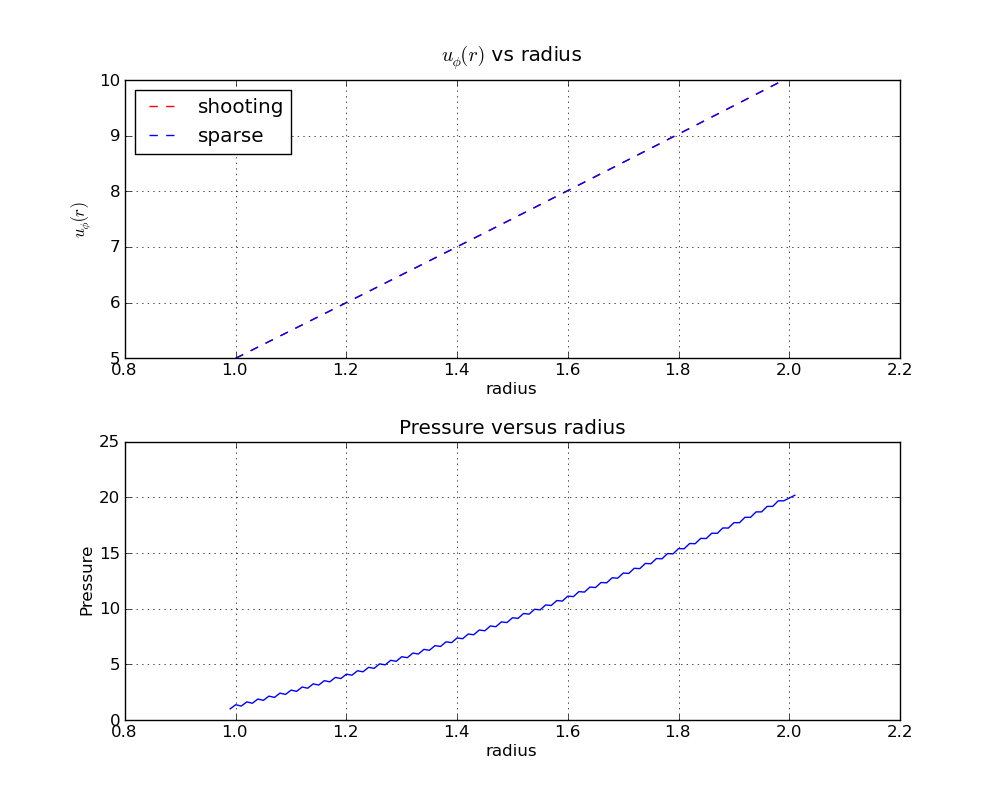
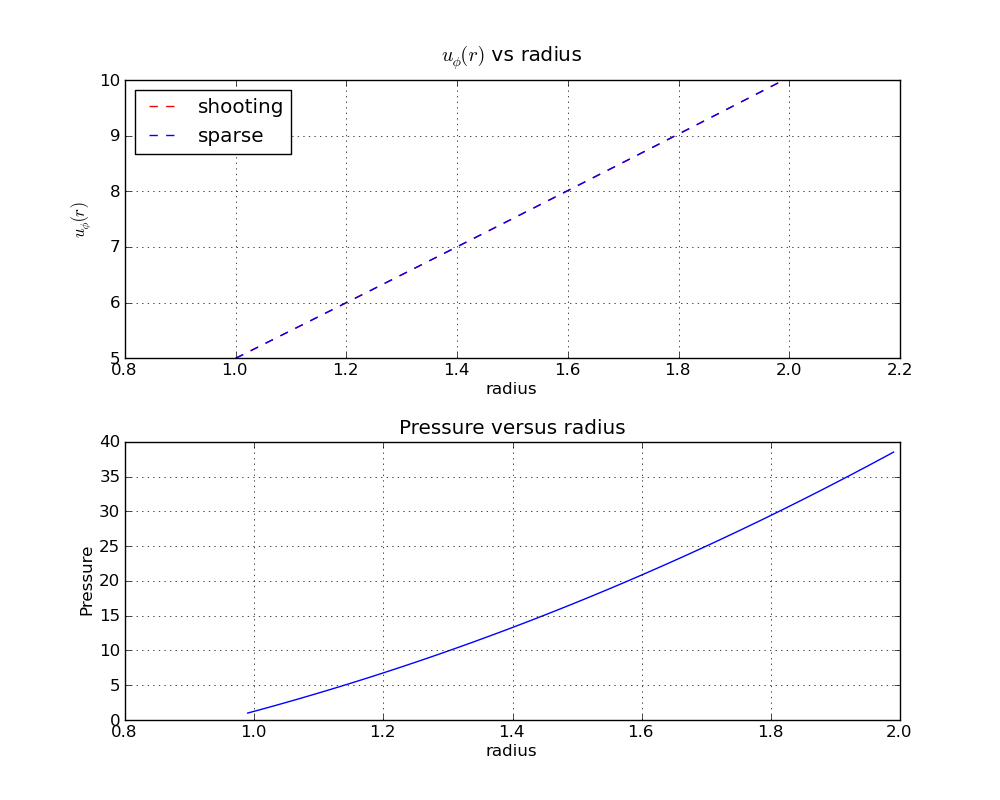
have first derivative working

diff --git a/poisson1d.c b/poisson1d.c
@@ -47,7 +47,7 @@ void set_radius(){
 
 void fill_source(){
     int i;
-    for(i=0; i<(P_size+2); i++){
+    for(i=0; i<(P_size+1); i++){
         //radius[i] = r1 + ((i-1)*grid_spacing[0]);
         if(i==0){
             //source[i] = (2.0*radius[i]*Re*Wi*Wi);
@@ -58,7 +58,7 @@ void fill_source(){
             //source[i] = radius[i]*Re*Wo*Wo;
             //source[i] = 0.0;
             //source[i] = Pouter;
-            source[i] = Re*radius[i]*Wo*Wo;
+            source[i] = Re*radius[i]*Wi*Wi;
             //source[i] = Re*d1uphi[i-1]*d1uphi[i-1]/radius[i];
         }else{
             source[i] = Re*d1uphi[i-1]*d1uphi[i-1]/radius[i];
@@ -72,7 +72,7 @@ void fill_source(){
 void finite_difference(){
     int i;
     for(i=0; i<P_size; i++){
-        double value = radius[i+1]*((source[i+2] - source[i]))/(grid_spacing[0]*Re);
+        double value = radius[i+1]*((source[i+1] - source[i]))/(grid_spacing[0]*Re);
         uphi_new[i] = sqrt(value);
         //printf("value = %f, uphinew[%d] = %f \n", value, i, uphi_new[i]);
     }
@@ -83,8 +83,8 @@ void finite_difference(){
 
 void sparse(){
     
-    const int M = 102;
-    const int N = 102;
+    const int M = 101;
+    const int N = 101;
     int i;
     // Declare an MxN matrix which can hold up to three band-diagonals.
     struct cs_sparse *triplet = cs_spalloc(M, N, 5*N, 1, 1);
@@ -101,16 +101,31 @@ void sparse(){
         e = -1.0*a;
         
         
-        if(i==0){
+        /*if(i==0){
             //cs_entry(triplet, i, i, e);
             //cs_entry(triplet, i, i+1, a);
             cs_entry(triplet, i, i, 1.0);
         }else if(i==(M-1)){
-            cs_entry(triplet, i, i, a);
-            cs_entry(triplet, i, i-1, e);
+            //cs_entry(triplet, i, i, a);
+            //cs_entry(triplet, i, i-1, e);
+            cs_entry(triplet, i, i, 1.0);
+            cs_entry(triplet, i, 0, 1.0);
         }else{
             cs_entry(triplet, i, i-1, e);
             cs_entry(triplet, i, i+1, a);
+        }*/
+        if(i==0){
+            //cs_entry(triplet, i, i, e);
+            //cs_entry(triplet, i, i+1, a);
+            cs_entry(triplet, i, i, 1.0);
+        }else if(i==(M)){
+            //cs_entry(triplet, i, i, a);
+            //cs_entry(triplet, i, i-1, e);
+            cs_entry(triplet, i, i, 1.0);
+            cs_entry(triplet, i, 0, 1.0);
+        }else{
+            cs_entry(triplet, i, i-1, e);
+            cs_entry(triplet, i, i, a);
         }
         
         
@@ -158,7 +173,7 @@ int main()
     radius = (double*) malloc((P_size+2)*sizeof(double));
 
 
-    source = (double*) malloc((P_size+2)*sizeof(double));
+    source = (double*) malloc((P_size+1)*sizeof(double));
     set_radius();
     open_file();
 
@@ -169,42 +184,14 @@ int main()
     fill_source();
     
     sparse();
-    
-    /*if(Wi>Wo){
-        if(source[0]>source[1] || source[P_size+1]>source[P_size]){
-            if(source[0]>source[1]){
-                Pinner = source[1];
-            }
-            
-            if(source[P_size+1]>source[P_size]){
-                Pouter = source[P_size];
-            }
-            fill_source();
-            sparse();
-            
-        }
-    }else{
-        printf("here, Wi = %f, Wo = %f \n", Wi, Wo);
-        if(source[0]<source[1] || source[P_size+1]<source[P_size]){
-            printf("source[0] = %f, source[1] = %f, source[P+1] = %f, souce[P] = %f \n", source[0], source[1], source[P_size+1] , source[P_size]);
-            if(source[0]<source[1]){
-                Pinner = source[1];
-            }
-            
-            if(source[P_size+1]<source[P_size]){
-                Pouter = source[P_size];
-            }
-            fill_source();
-            sparse();
-        }
-    }*/
+
     
 
 
     // Print the solution vector.
     output=fopen("pressure.txt", "w");
 
-    for (i=0; i<(P_size+2); i++) {
+    for (i=0; i<(P_size+1); i++) {
         printf("source[%d] = %+5.4e\n", i, source[i]);
         fprintf(output, "%+5.4e \n", source[i]);
     }

diff --git a/poisson_solver.py b/poisson_solver.py
@@ -20,8 +20,8 @@ for i in range(len(uphi_shooting)):
 	r2 = r1+ (i*0.01)
 	radius.append(r2)
 	radius2.append(r2)
-y = 2.0+0.01	
-radius2.append(y)
+##y = 2.0+0.01	
+##radius2.append(y)
 
 # create a figure window
 fig1 = plt.figure(1, figsize=(10,8))
